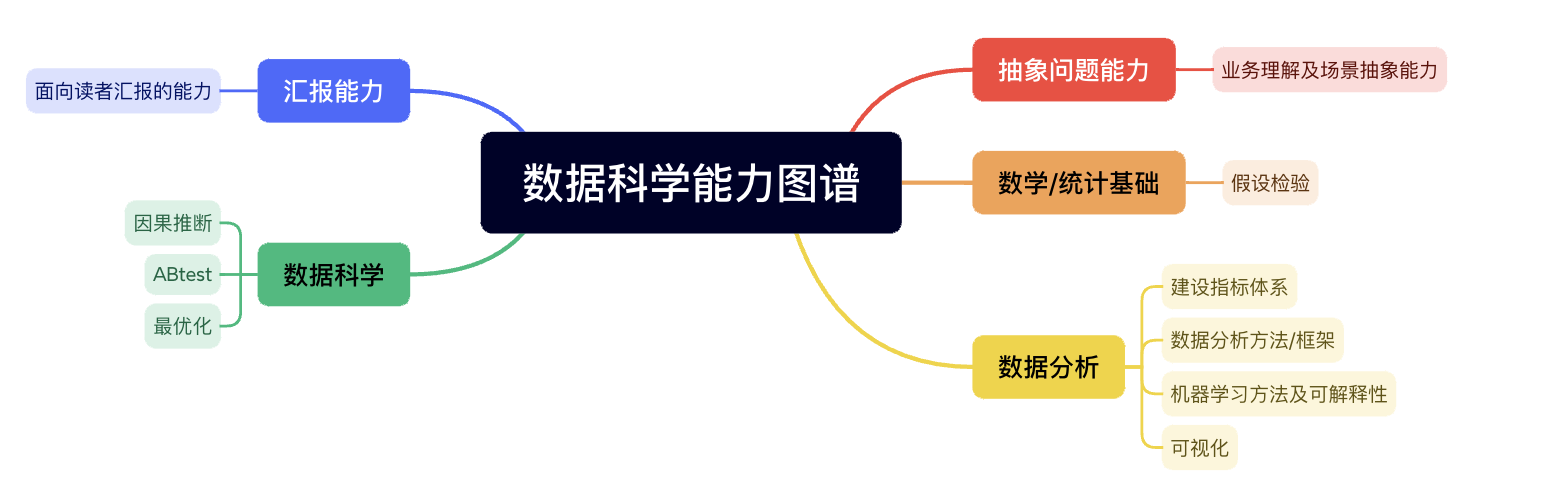
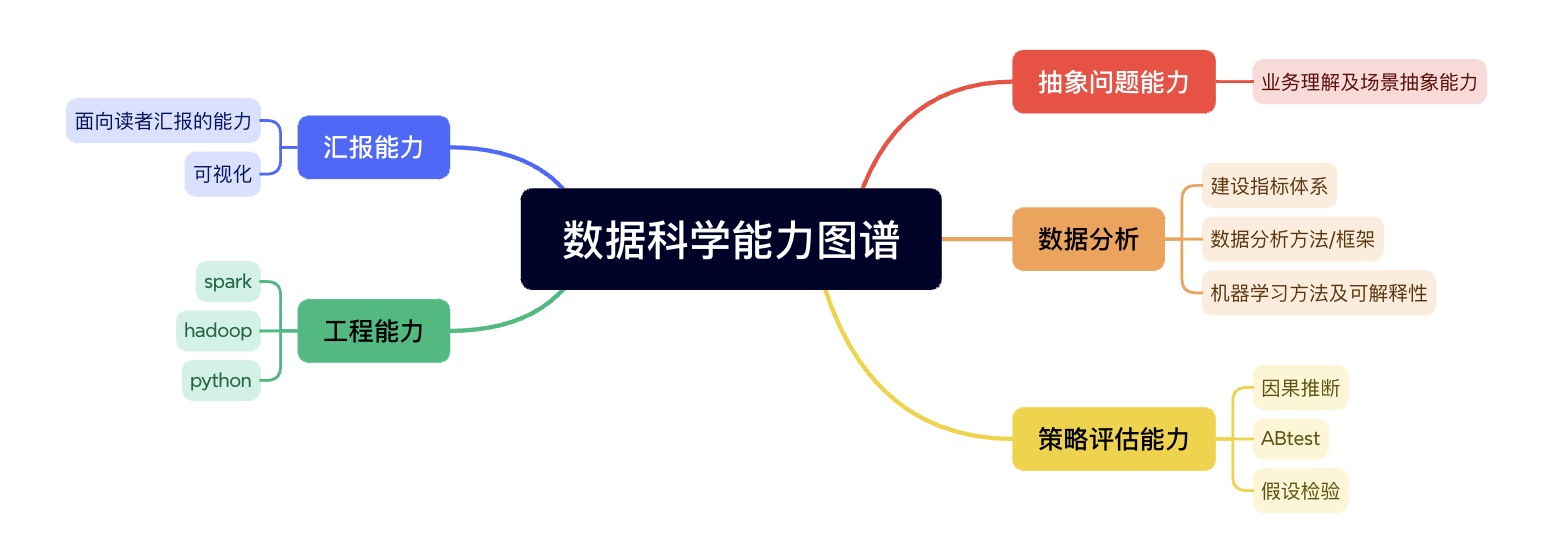
Site updated: 2024-08-27 23:14:49

Changed region(s): [[0.0, 0.0612, 0.9588, 0.9796]]

diff --git a/2024/08/23/数据科学能力图谱/index.html b/2024/08/23/数据科学能力图谱/index.html
@@ -5,7 +5,7 @@
 <head>
     <meta charset="utf-8">
     <meta name="keywords" content="数据科学能力图谱, 数据科学家、行业分析师">
-    <meta name="description" content="数据分析是一个以输出认知为交付对象的工作，那需要什么能力呢？本文试图从体系较多思考问题，将数据分析师解耦合，形成以业务理解,指标体系，数据分析方法,沟通协调汇报的框架，与业务视角呼应。">
+    <meta name="description" content="数据科学是一个以输出认知为交付对象的工作，那需要什么能力呢？本文试图从体系思考问题，将数据科学能力进行解耦合，形成以抽象问题能力、数据分析、策略评估、工程能力、汇报能力的一条龙服务。">
     <meta http-equiv="X-UA-Compatible" content="IE=edge">
     <meta name="viewport" content="width=device-width, initial-scale=1.0, user-scalable=no">
     <meta name="renderer" content="webkit|ie-stand|ie-comp">
@@ -339,7 +339,7 @@
                 
                 <div class="info-break-policy">
                     <i class="far fa-file-word fa-fw"></i>文章字数:&nbsp;&nbsp;
-                    114
+                    113
                 </div>
                 
 
@@ -369,7 +369,8 @@
 
         <div class="card-content article-card-content">
             <div id="articleContent">
-                <h2 id="导语"><a href="#导语" class="headerlink" title="导语"></a>导语</h2><p>网上关于分析方法的讨论有很多，但是缺乏思考，不够深入。世界上有劳心者、劳力者两种工作方式，数据分析是介于两者之间的工作，是一门既要具备老板思维，但是又是当牛马的工作。回归正题，数据分析岗位需要具备的能力拼图大致有如下板块，本文将对每个模块做讨论<br><img src="/images/20240823004858/image.png"></p>
+                <h2 id="导语"><a href="#导语" class="headerlink" title="导语"></a>导语</h2><p>网上关于分析方法的讨论有很多，但是缺乏思考，不够深入。在我看来，一个专业的数据岗位主要有抽象问题能力、数据分析、策略评估、工程能力、汇报能力五个模块能力，以下会用较为简短的语言将模块总结，并串联，后续将对重点模块方法论详细讨论。<br><img src="/images/20240823004858/image.png"></p>
+<p>思考中，预计本周完成。</p>
 
                 
             </div>

diff --git a/archives/2024/08/index.html b/archives/2024/08/index.html
@@ -510,7 +510,7 @@
                         <div class="card-content article-content">
                             <div class="summary block-with-text">
                                 
-                                    数据分析是一个以输出认知为交付对象的工作，那需要什么能力呢？本文试图从体系较多思考问题，将数据分析师解耦合，形成以业务理解,指标体系，数据分析方法,沟通协调汇报的框架，与业务视角呼应。
+                                    数据科学是一个以输出认知为交付对象的工作，那需要什么能力呢？本文试图从体系思考问题，将数据科学能力进行解耦合，形成以抽象问题能力、数据分析、策略评估、工程能力、汇报能力的一条龙服务。
                                 
                             </div>
                             <div class="publish-info">

diff --git a/archives/2024/index.html b/archives/2024/index.html
@@ -510,7 +510,7 @@
                         <div class="card-content article-content">
                             <div class="summary block-with-text">
                                 
-                                    数据分析是一个以输出认知为交付对象的工作，那需要什么能力呢？本文试图从体系较多思考问题，将数据分析师解耦合，形成以业务理解,指标体系，数据分析方法,沟通协调汇报的框架，与业务视角呼应。
+                                    数据科学是一个以输出认知为交付对象的工作，那需要什么能力呢？本文试图从体系思考问题，将数据科学能力进行解耦合，形成以抽象问题能力、数据分析、策略评估、工程能力、汇报能力的一条龙服务。
                                 
                             </div>
                             <div class="publish-info">

diff --git a/archives/index.html b/archives/index.html
@@ -510,7 +510,7 @@
                         <div class="card-content article-content">
                             <div class="summary block-with-text">
                                 
-                                    数据分析是一个以输出认知为交付对象的工作，那需要什么能力呢？本文试图从体系较多思考问题，将数据分析师解耦合，形成以业务理解,指标体系，数据分析方法,沟通协调汇报的框架，与业务视角呼应。
+                                    数据科学是一个以输出认知为交付对象的工作，那需要什么能力呢？本文试图从体系思考问题，将数据科学能力进行解耦合，形成以抽象问题能力、数据分析、策略评估、工程能力、汇报能力的一条龙服务。
                                 
                             </div>
                             <div class="publish-info">

diff --git a/categories/数据科学/index.html b/categories/数据科学/index.html
@@ -388,7 +388,7 @@
                     <div class="card-content article-content">
                         <div class="summary block-with-text">
                             
-                                数据分析是一个以输出认知为交付对象的工作，那需要什么能力呢？本文试图从体系较多思考问题，将数据分析师解耦合，形成以业务理解,指标体系，数据分析方法,沟通协调汇报的框架，与业务视角呼应。
+                                数据科学是一个以输出认知为交付对象的工作，那需要什么能力呢？本文试图从体系思考问题，将数据科学能力进行解耦合，形成以抽象问题能力、数据分析、策略评估、工程能力、汇报能力的一条龙服务。
                             
                         </div>
                         <div class="publish-info">

diff --git a/index.html b/index.html
@@ -584,7 +584,7 @@
                     <div class="card-content article-content">
                         <div class="summary block-with-text">
                             
-                                数据分析是一个以输出认知为交付对象的工作，那需要什么能力呢？本文试图从体系较多思考问题，将数据分析师解耦合，形成以业务理解,指标体系，数据分析方法,沟通协调汇报的框架，与业务视角呼应。
+                                数据科学是一个以输出认知为交付对象的工作，那需要什么能力呢？本文试图从体系思考问题，将数据科学能力进行解耦合，形成以抽象问题能力、数据分析、策略评估、工程能力、汇报能力的一条龙服务。
                             
                         </div>
                         <div class="publish-info">

diff --git a/2024/08/23/从游戏业务思考如何做好数据分析/index.html b/2024/08/23/从游戏业务思考如何做好数据分析/index.html
@@ -544,7 +544,7 @@
                 <div class="card-content article-content">
                     <div class="summary block-with-text">
                         
-                            数据分析是一个以输出认知为交付对象的工作，那需要什么能力呢？本文试图从体系较多思考问题，将数据分析师解耦合，形成以业务理解,指标体系，数据分析方法,沟通协调汇报的框架，与业务视角呼应。
+                            数据科学是一个以输出认知为交付对象的工作，那需要什么能力呢？本文试图从体系思考问题，将数据科学能力进行解耦合，形成以抽象问题能力、数据分析、策略评估、工程能力、汇报能力的一条龙服务。
                         
                     </div>
                     <div class="publish-info">

diff --git a/2024/08/25/那些我们最终要去思考的事情/index.html b/2024/08/25/那些我们最终要去思考的事情/index.html
@@ -593,7 +593,7 @@
                 <div class="card-content article-content">
                     <div class="summary block-with-text">
                         
-                            数据分析是一个以输出认知为交付对象的工作，那需要什么能力呢？本文试图从体系较多思考问题，将数据分析师解耦合，形成以业务理解,指标体系，数据分析方法,沟通协调汇报的框架，与业务视角呼应。
+                            数据科学是一个以输出认知为交付对象的工作，那需要什么能力呢？本文试图从体系思考问题，将数据科学能力进行解耦合，形成以抽象问题能力、数据分析、策略评估、工程能力、汇报能力的一条龙服务。
                         
                     </div>
                     <div class="publish-info">
